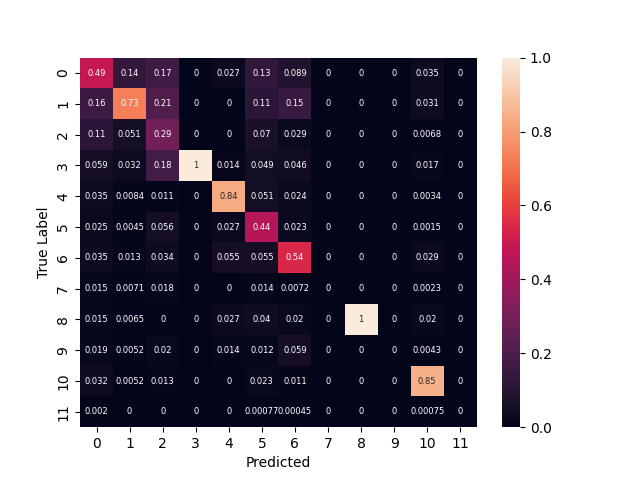
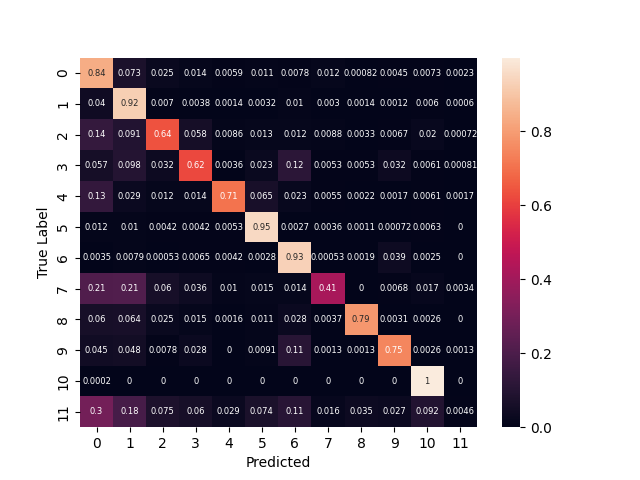
Saving confusion matrices

diff --git a/Generative/viterbi.py b/Generative/viterbi.py
@@ -32,7 +32,7 @@ def dfToCorpusStyle(words, pos):
         retList.append(tempList)
     return retList
 
-train_corpus = nltk.corpus.brown.tagged_sents(tagset='universal')[:10]#[:16000]
+train_corpus = nltk.corpus.brown.tagged_sents(tagset='universal')[:16000]
 test_corpus = nltk.corpus.brown.tagged_sents(tagset='universal')[18000:20000]
 
 # Convert the Data to a DataFrame
@@ -62,11 +62,13 @@ for sentence, pos in tqdm(zip(df_test.Word, df_test.POS)):
         confusionMatrix[truth][predicted] += 1
     totalNumWords += len(obs)
 
-confusionMatrix /= np.sum(confusionMatrix+1e-19, axis=0)
+confusionMatrix = (confusionMatrix / np.sum(confusionMatrix+1e-19, axis=0)).T
 
 print(f"Total Time for Real Data: {time() - start_time}")
 print(totalCorrect/totalNumWords)
 print(confusionMatrix)
+
+plt.figure()
 sn.heatmap(confusionMatrix, annot=True, annot_kws={"size":6}) # font size
 plt.xlabel("Predicted")
 plt.ylabel("True Label")
@@ -102,6 +104,7 @@ print(f"Total Time for Synthetic Data: {time() - start_time}")
 print(totalCorrect/totalNumWords)
 print(confusionMatrix)
 
+plt.figure()
 sn.heatmap(confusionMatrix, annot=True, annot_kws={"size":6}) # font size
 plt.xlabel("Predicted")
 plt.ylabel("True Label")
